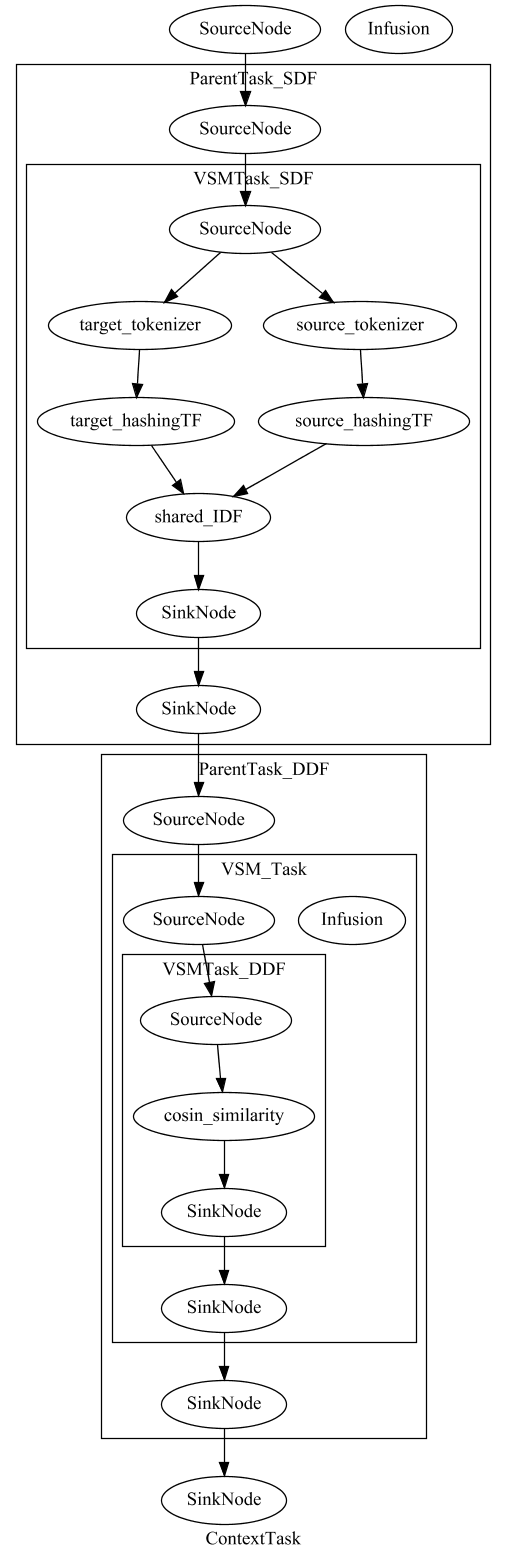
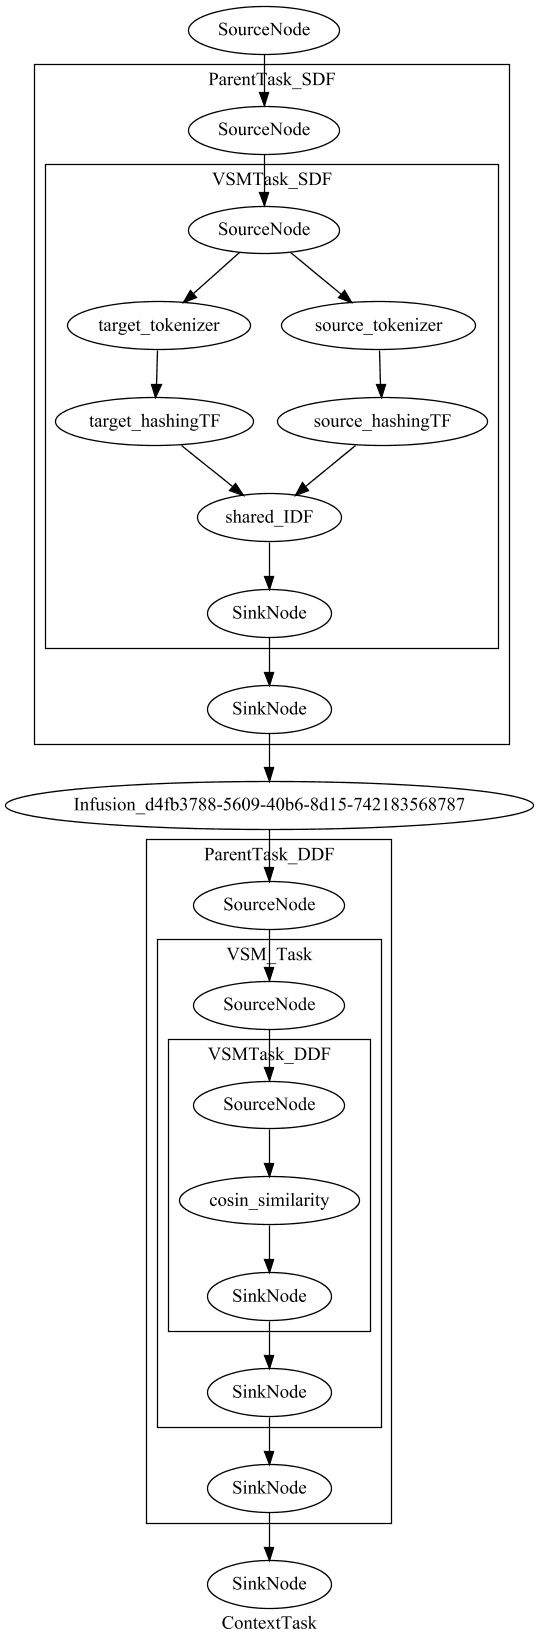
merge debug finished and tested

Changed region(s): [[0.0296, 0.0, 0.9763, 1.0]]

diff --git a/src/test/java/SparkJobTest.java b/src/test/java/SparkJobTest.java
@@ -73,15 +73,6 @@ public class SparkJobTest extends TestBase {
         System.out.print(String.format("Total link num: %s are processed...", result.count()));
     }
 
-    private Map<String, String> getVSMTaskConfig() {
-        Map<String, String> vsmTaskInputConfig = new HashMap<>();
-        vsmTaskInputConfig.put("s_text", "commit_content");
-        vsmTaskInputConfig.put("t_text", "issue_content");
-        vsmTaskInputConfig.put("s_id", "commit_id");
-        vsmTaskInputConfig.put("t_id", "issue_id");
-        return vsmTaskInputConfig;
-    }
-
     @Test
     public void nestedSparkTaskTest() throws Exception {
 
@@ -142,6 +133,60 @@ public class SparkJobTest extends TestBase {
         //outerTask.getSdfGraph().configSDF(vsmTaskInputConfig);
         outerTask.train(commits, improvements, null);
         Dataset<Row> result = outerTask.trace(commits, improvements);
+        result.show();
+    }
+
+    @Test
+    public void TaskMergeTest() throws Exception {
+        SparkTraceTask t1 = VSMTask.getSTT(sparkSession);
+        SDFGraph sdf = new SDFGraph();
+        sdf.setId("ParentTask_SDF");
+        sdf.addInputField("s_id").addInputField("t_id").addInputField("s_text").addInputField("t_text");
+        sdf.addOutputField("s_text_out").addOutputField("t_text_out").addOutputField("s_id_out").addOutputField("t_id_out");
+        sdf.assignTypeToOutputField("s_text_out", SDFNode.SDFType.SOURCE_SDF);
+        sdf.assignTypeToOutputField("t_text_out", SDFNode.SDFType.TARGET_SDF);
+        sdf.connect(sdf.sourceNode, "s_text", sdf.sinkNode, "s_text_out");
+        sdf.connect(sdf.sourceNode, "t_text", sdf.sinkNode, "t_text_out");
+        sdf.connect(sdf.sourceNode, "t_id", sdf.sinkNode, "t_id_out");
+        sdf.connect(sdf.sourceNode, "s_id", sdf.sinkNode, "s_id_out");
+
+        SGraph ddf = new SGraph();
+        ddf.addInputField("s_text").addInputField("s_id");
+        ddf.addInputField("t_text").addInputField("t_id");
+        ddf.addOutputField("vsm_cosin_sim_score");
+        ddf.setId("ParentTask_DDF");
+
+        ddf.addNode(t1);
+        ddf.connect(ddf.sourceNode, "s_text", t1, "s_text");
+        ddf.connect(ddf.sourceNode, "t_text", t1, "t_text");
+        ddf.connect(ddf.sourceNode, "s_id", t1, "s_id");
+        ddf.connect(ddf.sourceNode, "t_id", t1, "t_id");
+        ddf.connect(t1, "vsm_score", ddf.sinkNode, "vsm_cosin_sim_score");
+
+        SparkTraceTask context = new SparkTraceTask(sparkSession, sdf, ddf, "s_id", "t_id");
+        context.setId("ContextTask");
+        context.addInputField("s_id").addInputField("t_id").addInputField("s_text").addInputField("t_text");
+        context.addOutputField("vsm_score");
+        context.connect(context.sourceNode, "s_id", sdf, "s_id");
+        context.connect(context.sourceNode, "t_id", sdf, "t_id");
+        context.connect(context.sourceNode, "s_text", sdf, "s_text");
+        context.connect(context.sourceNode, "t_text", sdf, "t_text");
+
+        context.connect(context.getSdfGraph(), "s_text_out", context.getDdfGraph(), "s_text");
+        context.connect(context.getSdfGraph(), "t_text_out", context.getDdfGraph(), "t_text");
+        context.connect(context.getSdfGraph(), "s_id_out", context.getDdfGraph(), "s_id");
+        context.connect(context.getSdfGraph(), "t_id_out", context.getDdfGraph(), "t_id");
+        context.connect(context.getDdfGraph(), "vsm_cosin_sim_score", context.sinkNode, "vsm_score");
+
+        context.showGraph("TaskMergeTest_before_optimize");
+        context.initSTT();
+        context.infuse();
+        context.optimize(context);
+        context.showGraph("TaskMergeTest_after_optimize");
+        context.setConfig(getVSMTaskConfig());
+
+        context.train(commits, improvements, null);
+        Dataset<Row> result = context.trace(commits, improvements);
         result.show();
     }
 }

diff --git a/src/main/java/core/SparkTraceTask.java b/src/main/java/core/SparkTraceTask.java
@@ -16,6 +16,7 @@ import traceability.components.abstractComponents.TraceLink;
 
 import java.util.*;
 
+import static org.apache.spark.sql.functions.instr;
 import static org.apache.spark.sql.functions.lit;
 
 
@@ -44,7 +45,7 @@ public class SparkTraceTask extends SGraph {
         this.sparkSession = sparkSession;
         this.sdfGraph = sdfGraph;
         this.ddfGraph = ddfGraph;
-        this.infusionNode = new TransparentSNode(new InfusionStage(sdfGraph, ddfGraph), "infusion_" + UUID.randomUUID());
+        this.infusionNode = new TransparentSNode(new InfusionStage(sdfGraph, ddfGraph), "Infusion_" + UUID.randomUUID());
         addNode(sdfGraph);
         addNode(ddfGraph);
         addNode(this.infusionNode);
@@ -133,16 +134,19 @@ public class SparkTraceTask extends SGraph {
             return;
         }
         for (IOTableCell sdfOut : sdfGraph.getOutputTable().getCells()) {
+            if (sdfOut.getOutputTarget().size() == 0) {
+                continue;        //If this field is not used
+            }
             Symbol infusionIn = new Symbol(infusionNode, sdfOut.getFieldSymbol().getSymbolName() + "_in");
             Symbol infusionOut = new Symbol(infusionNode, sdfOut.getFieldSymbol().getSymbolName() + "_out");
             infusionNode.addInputField(infusionIn);
             infusionNode.addOutputField(infusionOut);
-            this.connect(sdfOut.getFieldSymbol(), infusionIn);
-            sdfOut.setRemovable(false);
             for (IOTableCell ddfReceiver : new ArrayList<>(sdfOut.getOutputTarget())) {
                 connect(infusionOut, ddfReceiver.getFieldSymbol());
                 disconnect(sdfOut.getFieldSymbol(), ddfReceiver.getFieldSymbol());
             }
+            sdfOut.setRemovable(false);
+            this.connect(sdfOut.getFieldSymbol(), infusionIn);
         }
     }
 
@@ -161,6 +165,7 @@ public class SparkTraceTask extends SGraph {
                     SparkTraceTask subTask = (SparkTraceTask) node;
                     //Make sure the child STT have merged all inner STTs
                     subTask.initSTT();
+                    subTask.infusionNode = null;
 
                     //Find a path from parent STT's DDF graph to subTask in GHT, the first node in path is parent DDF
                     GraphHierarchyTree subTaskDDFTreeNode = ght.findNode(subTask.ddfGraph);
@@ -176,9 +181,10 @@ public class SparkTraceTask extends SGraph {
 
     @Override
     public Pipeline toPipeline() throws Exception {
-        infuse();
-        ((InfusionStage) infusionNode.getSparkPipelineStage()).setSourceIdCol(getSourceIdCol());
-        ((InfusionStage) infusionNode.getSparkPipelineStage()).setTargetIdCol(getTargetIdCol());
+        if (infusionNode != null) {
+            ((InfusionStage) infusionNode.getSparkPipelineStage()).setSourceIdCol(getSourceIdCol());
+            ((InfusionStage) infusionNode.getSparkPipelineStage()).setTargetIdCol(getTargetIdCol());
+        }
         return super.toPipeline();
     }
 

diff --git a/src/test/java/OptimizationTest.java b/src/test/java/OptimizationTest.java
@@ -374,51 +374,4 @@ public class OptimizationTest extends TestBase {
         return subGraph;
     }
 
-    @Test
-    public void TaskMergeTest() throws Exception {
-        SparkTraceTask t1 = VSMTask.getSTT(sparkSession);
-        SDFGraph sdf = new SDFGraph();
-        sdf.setId("ParentTask_SDF");
-        sdf.addInputField("s_id").addInputField("t_id").addInputField("s_text").addInputField("t_text");
-        sdf.addOutputField("s_text_out").addOutputField("t_text_out").addOutputField("s_id_out").addOutputField("t_id_out");
-        sdf.assignTypeToOutputField("s_text_out", SDFNode.SDFType.SOURCE_SDF);
-        sdf.assignTypeToOutputField("t_text_out", SDFNode.SDFType.TARGET_SDF);
-        sdf.connect(sdf.sourceNode, "s_text", sdf.sinkNode, "s_text_out");
-        sdf.connect(sdf.sourceNode, "t_text", sdf.sinkNode, "t_text_out");
-        sdf.connect(sdf.sourceNode, "t_id", sdf.sinkNode, "t_id_out");
-        sdf.connect(sdf.sourceNode, "s_id", sdf.sinkNode, "s_id_out");
-
-        SGraph ddf = new SGraph();
-        ddf.addInputField("s_text").addInputField("s_id");
-        ddf.addInputField("t_text").addInputField("t_id");
-        ddf.addOutputField("vsm_cosin_sim_score");
-        ddf.setId("ParentTask_DDF");
-
-        ddf.addNode(t1);
-        ddf.connect(ddf.sourceNode, "s_text", t1, "s_text");
-        ddf.connect(ddf.sourceNode, "t_text", t1, "t_text");
-        ddf.connect(ddf.sourceNode, "s_id", t1, "s_id");
-        ddf.connect(ddf.sourceNode, "t_id", t1, "t_id");
-        ddf.connect(t1, "vsm_score", ddf.sinkNode, "vsm_cosin_sim_score");
-
-        SparkTraceTask context = new SparkTraceTask(sparkSession, sdf, ddf, "s_id", "t_id");
-        context.setId("ContextTask");
-        context.addInputField("s_id").addInputField("t_id").addInputField("s_text").addInputField("t_text");
-        context.addOutputField("vsm_score");
-        context.connect(context.sourceNode, "s_id", sdf, "s_id");
-        context.connect(context.sourceNode, "t_id", sdf, "t_id");
-        context.connect(context.sourceNode, "s_text", sdf, "s_text");
-        context.connect(context.sourceNode, "t_text", sdf, "t_text");
-
-        context.connect(context.getSdfGraph(), "s_text_out", context.getDdfGraph(), "s_text");
-        context.connect(context.getSdfGraph(), "t_text_out", context.getDdfGraph(), "t_text");
-        context.connect(context.getSdfGraph(), "s_id_out", context.getDdfGraph(), "s_id");
-        context.connect(context.getSdfGraph(), "t_id_out", context.getDdfGraph(), "t_id");
-        context.connect(context.getDdfGraph(), "vsm_cosin_sim_score", context.sinkNode, "vsm_score");
-
-        context.showGraph("TaskMergeTest_before_optimize");
-        context.initSTT();
-        context.showGraph("TaskMergeTest_after_optimize");
-    }
-
 }

diff --git a/src/main/java/core/graphPipeline/basic/SGraph.java b/src/main/java/core/graphPipeline/basic/SGraph.java
@@ -2,6 +2,7 @@ package core.graphPipeline.basic;
 
 import core.graphPipeline.graphSymbol.Symbol;
 import core.graphPipeline.graphSymbol.SymbolTable;
+import featurePipeline.InfusionStage.InfusionStage;
 import featurePipeline.SGraphColumnRemovalStage;
 import featurePipeline.SGraphIOStage;
 import guru.nidi.graphviz.attribute.Label;
@@ -241,6 +242,9 @@ public class SGraph extends Vertex {
                         int remainDemand = demandTable.get(sourceCell) - 1;
                         demandTable.put(sourceCell, remainDemand);
                         if (remainDemand == 0 && sourceCell.isRemovable()) {
+                            if (sourceCell.getFieldSymbol().getSymbolValue().equals("s_idf_out")) {
+                                int i = 0;
+                            }
                             SGraphColumnRemovalStage removalStage = new SGraphColumnRemovalStage();
                             removalStage.setInputCols(new String[]{sourceCell.getFieldSymbol().getSymbolValue()});
                             stages.add(removalStage);
@@ -465,6 +469,9 @@ public class SGraph extends Vertex {
         for (Vertex vertex : this.getNodes()) {
             if (vertex instanceof SNode) {
                 SNode v = (SNode) vertex;
+                if (v.getSparkPipelineStage() instanceof InfusionStage || v instanceof TransparentSNode) {
+                    int i = 0;
+                }
                 String nodeTitle = v.getVertexId();
                 //Simplify the node name
                 if (nodeTitle.startsWith("SourceNode")) {

diff --git a/src/main/java/core/graphPipeline/SDF/SDFGraph.java b/src/main/java/core/graphPipeline/SDF/SDFGraph.java
@@ -12,9 +12,17 @@ public class SDFGraph extends SGraph implements SDFInterface {
     //SDFGraph outputFields are generated by sourceSDF and targetSDF logically
     private Map<String, SDFNode.SDFType> outputTypeMap;
 
-    public SDFGraph(){
+    public SDFGraph() {
         super();
         outputTypeMap = new HashMap<>();
+    }
+
+
+    @Override
+    public void removeOutputField(Symbol symbol) {
+        super.removeOutputField(symbol);
+        outputTypeMap.remove(symbol.getSymbolName());
+
     }
 
 

diff --git a/src/main/java/examples/TestBase.java b/src/main/java/examples/TestBase.java
@@ -131,4 +131,13 @@ public class TestBase {
         return data.union(nulls);
     }
 
+    protected Map<String, String> getVSMTaskConfig() {
+        Map<String, String> vsmTaskInputConfig = new HashMap<>();
+        vsmTaskInputConfig.put("s_text", "commit_content");
+        vsmTaskInputConfig.put("t_text", "issue_content");
+        vsmTaskInputConfig.put("s_id", "commit_id");
+        vsmTaskInputConfig.put("t_id", "issue_id");
+        return vsmTaskInputConfig;
+    }
+
 }
